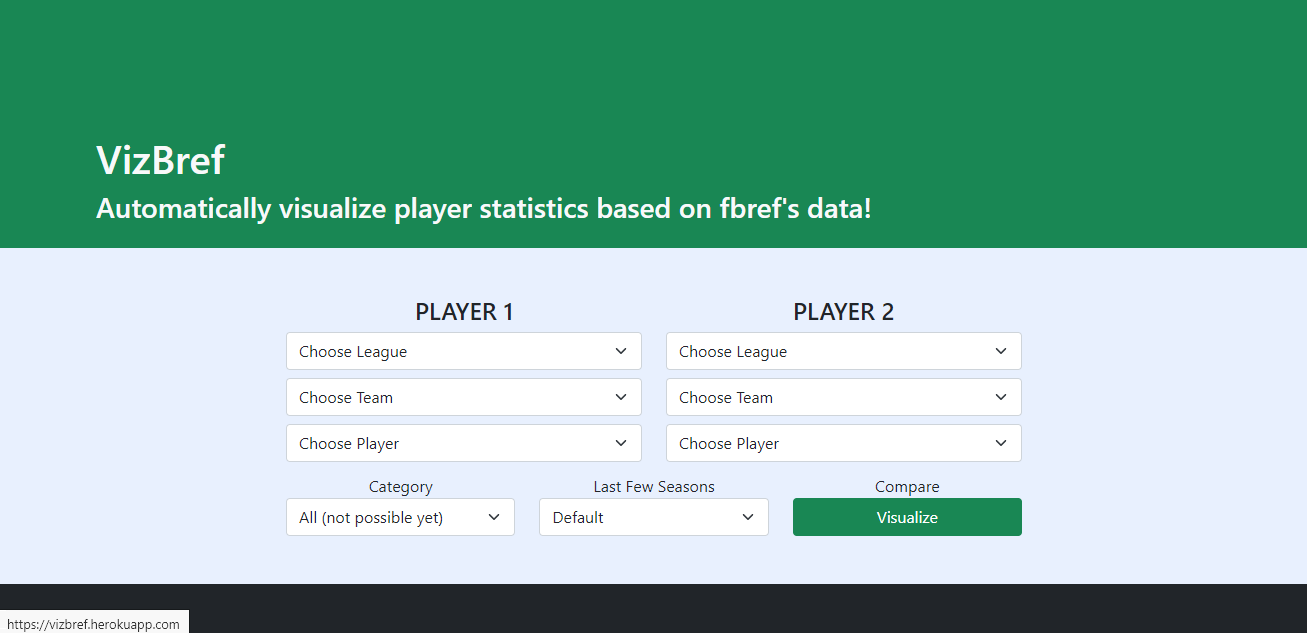
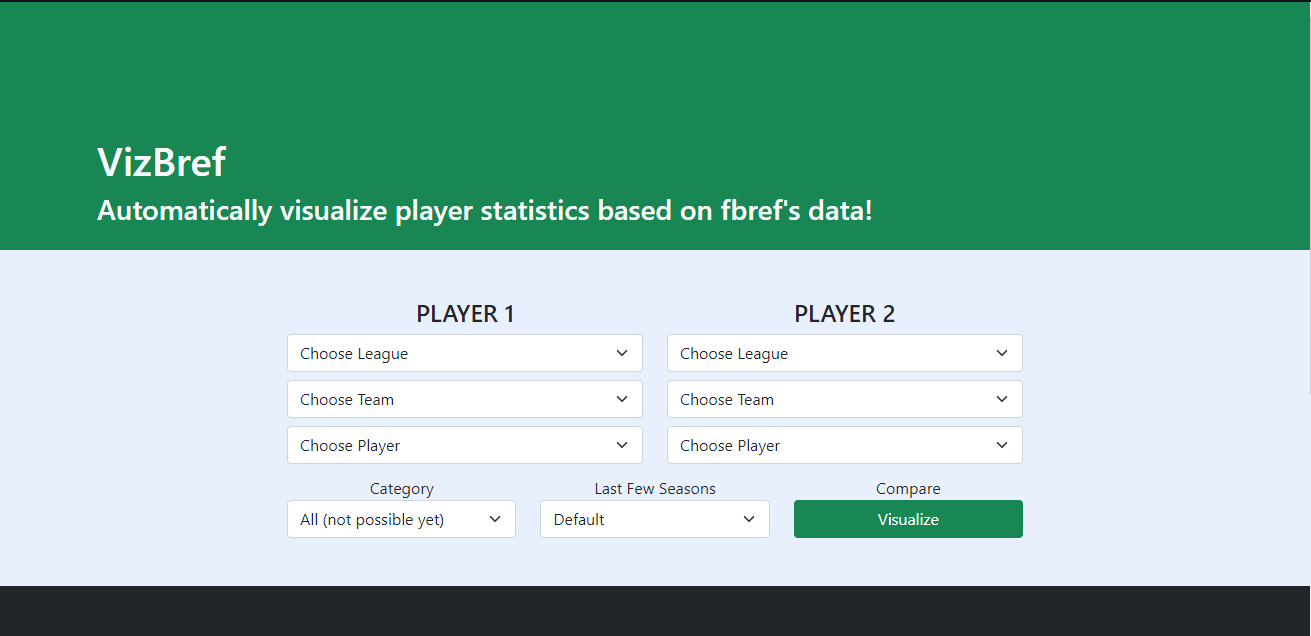
fix readme preview

diff --git a/consideration-features.MD b/consideration-features.MD
@@ -1,0 +1,11 @@
+# Features in Consideration
+
+List of things in consideration to be added in the future. Might be implemented when I have some motivations and free time.
+- Arbitrary 2 columns for scatter plot (e.g. X-axis for xG, Y-axis for xA)
+- Customizable plots (e.g. background color, plot type, colors for each player)
+- Radar plot of given category
+- Radar plot of given choices of metrics
+- 3 players choice
+- Implement Nginx because why not
+- Implement limit of automatic plots based on cookies just to know how to do it
+- Deploy in AWS or Google Cloud

diff --git a/README.md b/README.md
@@ -6,8 +6,8 @@
 </p> -->
 <div align="center">
   <h2>Preview</h2>
-  <img src="/dashboard/static/images/Vizbref.PNG" height="100%" width="100%" /> <br><br>
-  <img src="/dashboard/static/images/vizbref-compare.gif" height="100%" width="100%" >
+  <img src="/dashboard/static/images/Vizbref.PNG" height="500" width="700" /> <br><br>
+  <img src="/dashboard/static/images/vizbref-compare.gif" height="500" width="700" />
 </div>
 <div align="center">
   <h2>Data Source</h2>
